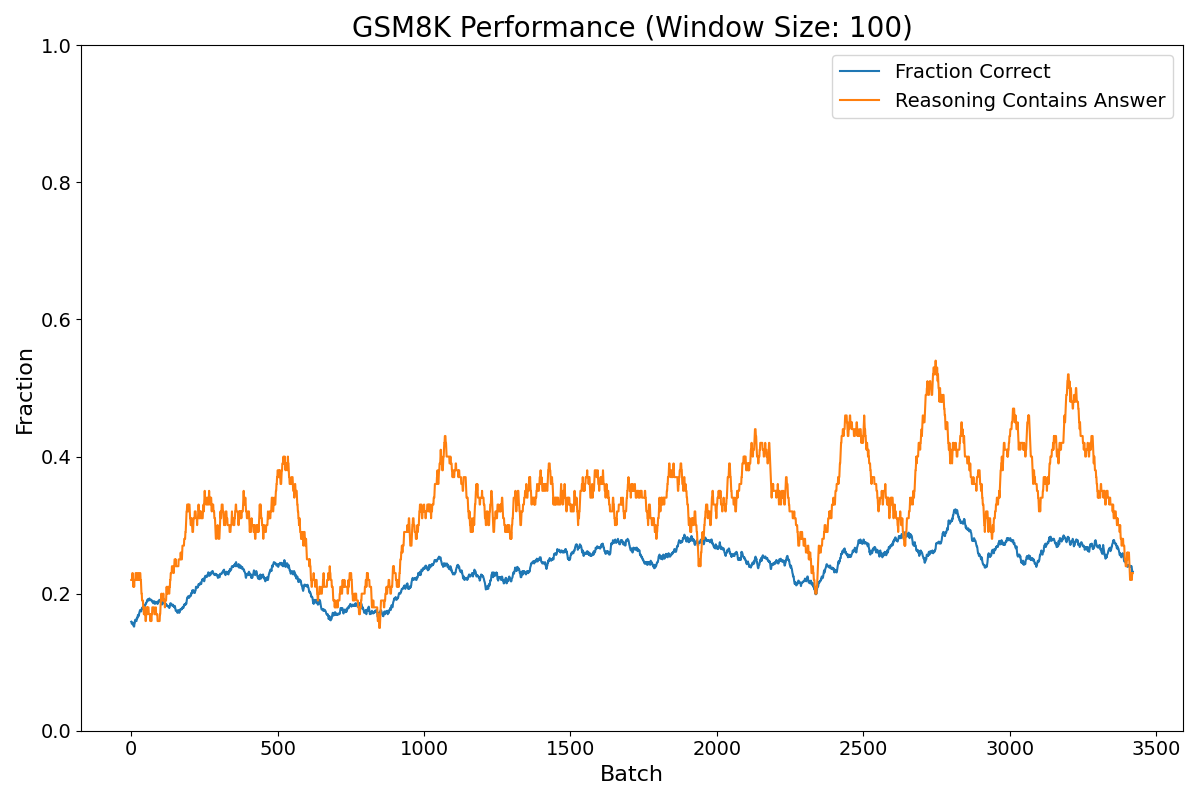
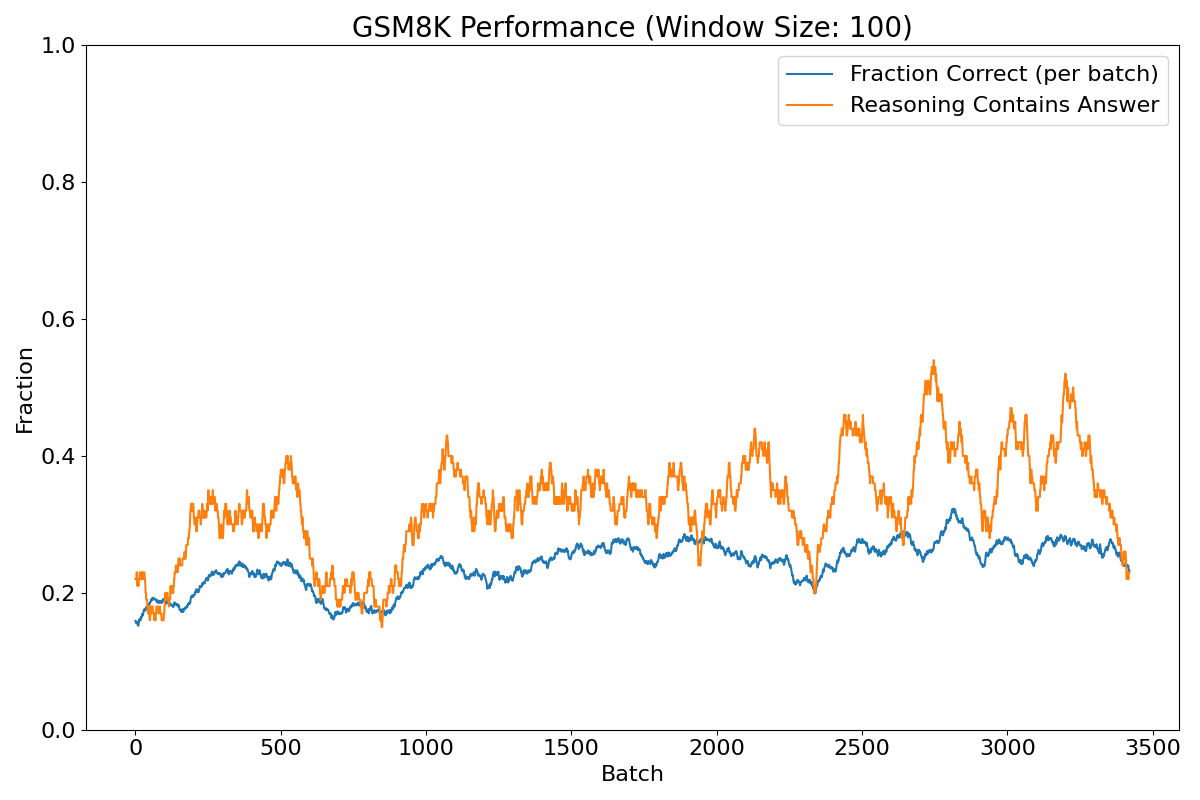
Updated GSM8K plot and the README showing how to reproduce it

diff --git a/README.md b/README.md
@@ -27,13 +27,21 @@ python src/policy_gradient_normalized.py --use_ei
 
 #### GSM8K Training
 
-To reproduce the GSM8K results using Proximal Policy Optimization (PPO) with Expert Iteration (EI), run the following command:
+To train the model on the GSM8K dataset using Proximal Policy Optimization (PPO), run the following command:
+
+```
+python src/policy_gradient_normalized.py --use_gsm8k --use_ppo
+```
+
+To reproduce the GSM8K results using Proximal Policy Optimization (PPO) with Expert Iteration (EI), run:
 
 ```
 python src/policy_gradient_normalized.py --use_gsm8k --use_ei --use_ppo
 ```
 
 This command will train a model using PPO with EI on the GSM8K dataset and evaluate its performance.
+
+Note: In the run that achieved 35.65% accuracy (as plotted in the appendix of the paper), we set the "r" hyperparameter to None in the `policy_gradient_normalized.py` script. However, we suspect this setting is unnecessary to achieve similar results.
 
 #### GSM8K Evaluation (`src/AnalyzeResults/eval_gsm8k.py`)
 
@@ -126,3 +134,17 @@ Please ensure all dependencies are installed before running the scripts.
 - The `--use-max` flag in `eval_cot_answer_accuracy.py` is required to reproduce the results as presented.
 - Adjust batch sizes and other parameters as needed based on your hardware capabilities.
 - Some scripts may require significant computational resources, especially when working with large language models.
+
+## GSM8K Results
+
+To generate the GSM8K Performance plot from the appendix, use the following command:
+
+```
+python src/AnalyzeResults/analyze_pg_norm.py --gsm8k_plot --window_size=100 --log_file results/Official/GSM8K_training.log
+```
+
+This command will create a plot showing two metrics over the course of training:
+1. "Fraction Correct (per batch)": The fraction of correct answers in each batch.
+2. "Reasoning Contains Answer": The proportion of reasoning steps that contain the correct answer.
+
+The plot uses a moving average with a window size of 100 batches to smooth out short-term fluctuations and highlight longer-term trends.
